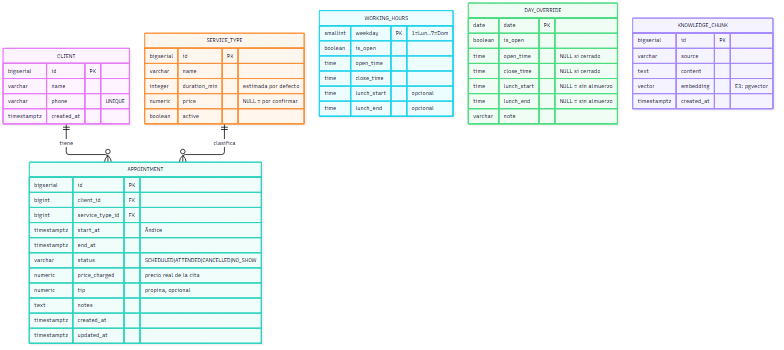
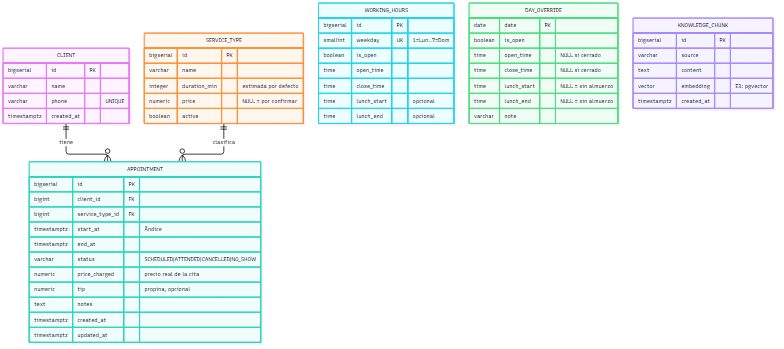
docs: mark E1-T2 done, add rendered diagram PNGs

diff --git a/docs/PROGRESO.md b/docs/PROGRESO.md
@@ -2,14 +2,15 @@
 
 ## Estado actual
 - Etapa: E1 — Backend núcleo (sin IA)
-- Última tarea terminada: E1-T1
+- Última tarea terminada: E1-T2
 - Tarea en curso: (ninguna)
-- Próxima tarea: E1-T2
+- Próxima tarea: E1-T3
 
 ## Punto de control
-E1-T1 lista: diagramas en `diseño/`, esqueleto Spring Boot 4.1 (Java 21) en `backend/`, Flyway V1
-(esquema + seed Mechas/Cepillado/Detalle), PostgreSQL local con docker-compose y 4 tests en verde.
-Siguiente: E1-T2 (entidades + repositorios + tests de repositorio con Testcontainers).
+E1-T2 lista: 5 entidades JPA + 5 repositorios Spring Data + tests de repositorio con Testcontainers
+(18 tests en verde). Las anotaciones de test de Spring Boot 4 viven en paquetes nuevos
+(`org.springframework.boot.data.jpa.test.autoconfigure`, `org.springframework.boot.jdbc.test.autoconfigure`).
+Siguiente: E1-T3 (ScheduleService: horario semanal, overrides, domingos cerrados).
 
 ## Decisiones tomadas
 - 2026-11-18 (E1-T1): Spring Boot 4.1.2 en vez de 3.x (la línea 3 quedó EOL en 2026). El resto del stack no cambia.
@@ -25,6 +26,7 @@ Siguiente: E1-T2 (entidades + repositorios + tests de repositorio con Testcontai
 - Clientes que pagan a fin de mes (cepillados semanales): posible cuentas por cobrar — fuera de alcance por ahora.
 
 ## Bitácora (más reciente arriba)
+- 2026-11-18 — E1-T2: entidades JPA (5) + repositorios (5) + tests con Testcontainers; 18 tests verdes. Ajuste en V1: `working_hours` ahora tiene `id` BIGSERIAL (Hibernate no permite @Convert en @Id).
 - 2026-11-18 — E1-T1: esqueleto Spring Boot 4.1 (Java 21) + Flyway V1 (esquema + seed Mechas/Cepillado/Detalle) + docker-compose OK + 4 tests verdes (Testcontainers).
 - 2026-11-18 — Cierre de sesión: E0 aprobada; plan E1-T1 presentado (pendiente de OK para arrancar).
 - 2026-11-18 — E0-T3: fechas objetivo del roadmap llenadas (4–5 h/semana). Etapa E0 completa.

diff --git a/docs/ROADMAP.md b/docs/ROADMAP.md
@@ -21,7 +21,7 @@ Estimación en "sesiones" (1 sesión ≈ 2 h). Ritmo: 4–5 h por semana (≈ 2 
 
 ## E1 — Backend núcleo (sin IA)
 - [x] E1-T1 Proyecto Spring Boot + PostgreSQL local (docker) + Flyway V1 (esquema + servicios iniciales: Mechas, Cepillado, Detalle). Usar el `docker-compose.yml` incluido
-- [ ] E1-T2 Entidades + repositorios + test de repositorio (Testcontainers)
+- [x] E1-T2 Entidades + repositorios + test de repositorio (Testcontainers)
 - [ ] E1-T3 `ScheduleService` (horario semanal, overrides, domingos cerrados) + tests
 - [ ] E1-T4 `AvailabilityService` (huecos por rango y duración) + tests
 - [ ] E1-T5 `AppointmentService` (crear, cancelar, reprogramar, estados, sin solapamientos) + tests
